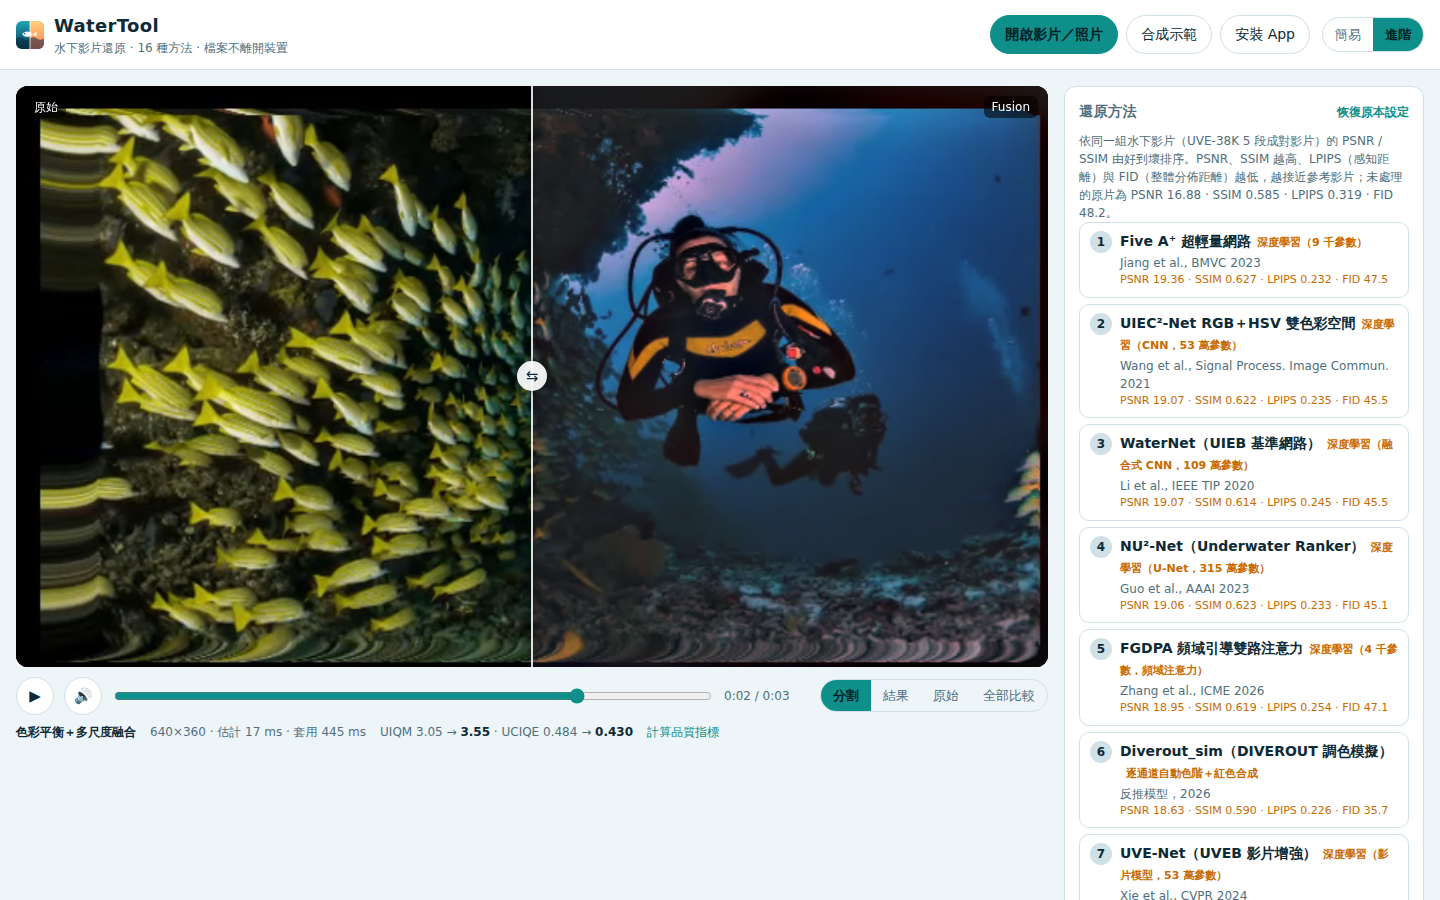
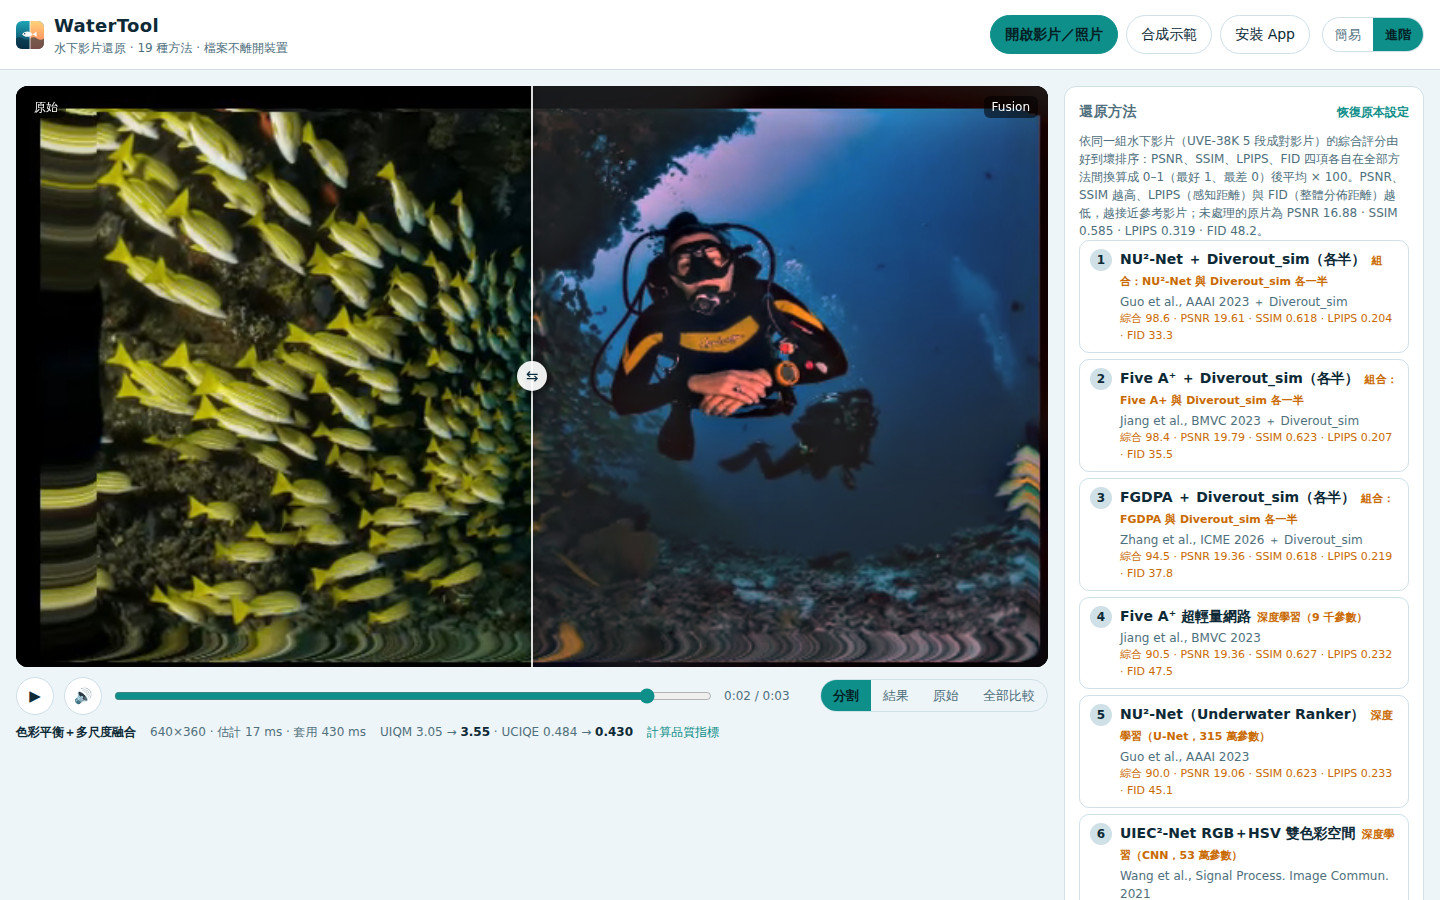
WIP: blends in App list (composite ranking), docs tables, quant speed/flicker checks, export/GPU test tools
Claude-Session: https://claude.ai/code/session_01CRjmNfKH33Gjkydw4cPcVw

diff --git a/lib/methods/index.js b/lib/methods/index.js
@@ -10,6 +10,7 @@ import { uwcnn, fiveaplus, uiec2net, nu2net } from './uieb-nets.js';
 import { waternet, uvenet } from './waternet.js';
 import diverout from './diverout.js';
 import fgdpa from './fgdpa.js';
+import { mixFiveaplus, mixNu2net, mixFgdpa } from './blend.js';
 
 mlle.discrete = ['order'];
 
@@ -24,6 +25,8 @@ export const SCORES = {
   funie: [17.29, 0.581, 0.325, 62.2], mlle: [17.20, 0.532, 0.424, 102.4], ancuti: [15.56, 0.586, 0.283, 74.1],
   ulap: [14.63, 0.529, 0.363, 69.9], seathru: [14.52, 0.466, 0.399, 87.0], ibla: [12.77, 0.409, 0.375, 58.3],
   udcp: [10.99, 0.387, 0.426, 66.4],
+  // 組合方法（深度模型＋Diverout_sim 各半，blend.js）
+  mix_nu2net: [19.61, 0.618, 0.204, 33.3], mix_fiveaplus: [19.79, 0.623, 0.207, 35.5], mix_fgdpa: [19.36, 0.618, 0.219, 37.8],
 };
 /** 未處理的原片在同一組影片上的分數（低於這個 = 比不處理還離參考遠） */
 export const RAW_SCORE = [16.88, 0.585, 0.319, 48.2];
@@ -42,7 +45,7 @@ export function composite(scores) {
 }
 export const COMPOSITE = composite(SCORES);
 
-export const METHODS = [ancuti, mlle, ulap, udcp, rghs, seathru, ibla, funie, nu2net, uiec2net, uwcnn, fiveaplus, waternet, uvenet, diverout, fgdpa]
+export const METHODS = [ancuti, mlle, ulap, udcp, rghs, seathru, ibla, funie, nu2net, uiec2net, uwcnn, fiveaplus, waternet, uvenet, diverout, fgdpa, mixFiveaplus, mixNu2net, mixFgdpa]
   .sort((a, b) => COMPOSITE[b.id] - COMPOSITE[a.id] || SCORES[b.id][0] - SCORES[a.id][0]);
 export const byId = Object.fromEntries(METHODS.map((m) => [m.id, m]));
 /** 評測用：把不在 App 清單裡的方法（例：mobile-nets.js 的候選模型）登記到 byId，讓 Processor 找得到 */

diff --git a/lib/methods/blend.js b/lib/methods/blend.js
@@ -37,5 +37,5 @@ export const mixFiveaplus = blendMethod(fiveaplus, { id: 'mix_fiveaplus', name: 
 export const mixUiec2net = blendMethod(uiec2net, { id: 'mix_uiec2net', name: 'UIEC²-Net ＋ Diverout_sim（各半）', short: 'UIEC²＋Diverout' });
 export const mixNu2net = blendMethod(nu2net, { id: 'mix_nu2net', name: 'NU²-Net ＋ Diverout_sim（各半）', short: 'NU²＋Diverout' });
 export const mixFgdpa = blendMethod(fgdpa, { id: 'mix_fgdpa', name: 'FGDPA ＋ Diverout_sim（各半）', short: 'FGDPA＋Diverout' });
-/** 評測過的候選（App 清單用其中三個，見 index.js） */
+/** 評測過的候選（App 清單用其中三個：Five A⁺、NU²-Net、FGDPA；UIEC²-Net 組合的綜合評分略低、而且慢 4 倍，只留在評測） */
 export const BLEND_CANDIDATES = [mixFiveaplus, mixUiec2net, mixNu2net, mixFgdpa];

diff --git a/docs/results-video.md b/docs/results-video.md
@@ -3,7 +3,7 @@
 由 `node scripts/bench-video.mjs` 與 `scripts/video-report.mjs` 產生。資料：[UVE-38K](https://github.com/TrentQiQ/UVE-38K)（Multimedia Tools and Applications 2023）倉庫附的 5 段真實水下影片與逐格參考影片（coral、cuttlefish、dive、marine_ranching_4、shark），每段全部的格（coral 359、cuttlefish 159、dive 119、marine_ranching_4 119、shark 161），共 917 格，320 px。
 參考影片是從 12 種增強方法中人工挑選、再做過幀間一致化的結果（不是真值）；GIF 為 256 色，原始與參考都經過同樣量化，分數適合方法間互相比較。
 
-每個方法都以 App 預設的影片模式處理（時間穩定化開：τ 0.5 秒、去閃爍 0.7、每格重新估計）；Diverout_sim 用它自己的關鍵幀（每 1 秒）＋線性內插。
+每個方法都以 App 預設的影片模式處理（時間穩定化開：τ 0.5 秒、去閃爍 0.7、每格重新估計）；Diverout_sim 用它自己的關鍵幀（每 1 秒）＋線性內插；組合方法（深度模型＋Diverout_sim 各半）的 Diverout_sim 部分同樣用關鍵幀，深度模型部分照常時間平滑。
 E_t = 平均 |(O_t − O_{t−1}) − (R_t − R_{t−1})|（0–255）：輸出影片的格間變化和參考影片差多少，越低越好；亮度閃爍 = 相鄰格平均亮度差（參考影片本身為 0.10）。
 
 LPIPS（Zhang et al., CVPR 2018，AlexNet v0.1）= 每格與參考格的深度特徵感知距離，越低越像；FID（Heusel et al., NeurIPS 2017）= 全部 917 格輸出與全部參考格的 InceptionV3 特徵分佈距離，越低整體觀感越接近參考。
@@ -11,69 +11,114 @@ FID 是「一組對一組」的分佈距離，917 格對 2048 維特徵屬於小
 
 每格 ms 是 Node 單執行緒 CPU、320 px 的整套處理時間，取自機器沒有其他工作時的另一次評測（這次 917 格的評測平行跑了很多工作，時間偏高）。
 
-| 排名 | 方法 | PSNR ↑ | SSIM ↑ | LPIPS ↓ | FID ↓ | E_t ↓ | 亮度閃爍 | 每格 ms |
-|---|---|---|---|---|---|---|---|---|
-| 1 | Five A⁺ 超輕量網路 | 19.36 | 0.627 | 0.232 | 47.5 | 10.45 | 0.41 | 628 |
-| 2 | UIEC²-Net RGB＋HSV 雙色彩空間 | 19.07 | 0.622 | 0.235 | 45.5 | 10.46 | 0.43 | 5555 |
-| 3 | WaterNet（UIEB 基準網路） | 19.07 | 0.614 | 0.245 | 45.5 | 10.52 | 0.48 | 4872 |
-| 4 | NU²-Net（Underwater Ranker） | 19.06 | 0.623 | 0.233 | 45.1 | 10.49 | 0.43 | 1277 |
-| 5 | FGDPA 頻域引導雙路注意力 | 18.95 | 0.619 | 0.254 | 47.1 | 10.54 | 0.43 | 114 |
-| 6 | Diverout_sim（DIVEROUT 調色模擬） | 18.63 | 0.590 | 0.226 | 35.7 | 10.84 | 0.60 | 5 |
-| 7 | UVE-Net（UVEB 影片增強） | 17.99 | 0.595 | 0.286 | 52.2 | 10.82 | 0.39 | 314 |
-| 8 | UWCNN 水下場景先驗 CNN | 17.48 | 0.580 | 0.349 | 77.0 | 11.08 | 0.48 | 879 |
-| 9 | RGHS 相對直方圖拉伸 | 17.37 | 0.558 | 0.281 | 42.3 | 11.78 | 0.56 | 44 |
-| 10 | FUnIE-GAN 深度學習 | 17.29 | 0.581 | 0.325 | 62.2 | 11.12 | 0.35 | 419 |
-| 11 | MLLE 最小色損＋局部對比 | 17.20 | 0.532 | 0.424 | 102.4 | 15.59 | 0.47 | 127 |
-| — | （未處理） | 16.88 | 0.585 | 0.319 | 48.2 | 10.70 | 0.37 | — |
-| 12 | 色彩平衡＋多尺度融合 | 15.56 | 0.586 | 0.283 | 74.1 | 11.30 | 0.35 | 104 |
-| 13 | ULAP 光衰減先驗復原 | 14.63 | 0.529 | 0.363 | 69.9 | 12.01 | 0.53 | 27 |
-| 14 | Sea-thru（ULAP 深度） | 14.52 | 0.466 | 0.399 | 87.0 | 14.11 | 0.93 | 246 |
-| 15 | IBLA 模糊度＋光吸收 | 12.77 | 0.409 | 0.375 | 58.3 | 12.70 | 0.70 | 249 |
-| 16 | UDCP 水下暗通道 | 10.99 | 0.387 | 0.426 | 66.4 | 13.14 | 0.42 | 31 |
+排名依**綜合評分**（0–100）：PSNR、SSIM、LPIPS、FID 各自在表中方法間做最小–最大正規化（最好 = 1、最差 = 0），四項平均 × 100。App 的方法清單用同樣的排序。
+
+| 排名 | 方法 | 綜合 ↑ | PSNR ↑ | SSIM ↑ | LPIPS ↓ | FID ↓ | E_t ↓ | 亮度閃爍 | 每格 ms |
+|---|---|---|---|---|---|---|---|---|---|
+| 1 | NU²-Net ＋ Diverout_sim（各半） | 98.6 | 19.61 | 0.618 | 0.204 | 33.3 | 10.40 | 0.50 | 1796 |
+| 2 | Five A⁺ ＋ Diverout_sim（各半） | 98.4 | 19.79 | 0.623 | 0.207 | 35.5 | 10.38 | 0.48 | 860 |
+| 3 | FGDPA ＋ Diverout_sim（各半） | 94.5 | 19.36 | 0.618 | 0.219 | 37.8 | 10.37 | 0.50 | 110 |
+| 4 | Five A⁺ 超輕量網路 | 90.5 | 19.36 | 0.627 | 0.232 | 47.5 | 10.45 | 0.41 | 628 |
+| 5 | NU²-Net（Underwater Ranker） | 90.0 | 19.06 | 0.623 | 0.233 | 45.1 | 10.49 | 0.43 | 1277 |
+| 6 | UIEC²-Net RGB＋HSV 雙色彩空間 | 89.5 | 19.07 | 0.622 | 0.235 | 45.5 | 10.46 | 0.43 | 5555 |
+| 7 | Diverout_sim（DIVEROUT 調色模擬） | 89.5 | 18.63 | 0.590 | 0.226 | 35.7 | 10.84 | 0.60 | 5 |
+| 8 | WaterNet（UIEB 基準網路） | 87.6 | 19.07 | 0.614 | 0.245 | 45.5 | 10.52 | 0.48 | 4872 |
+| 9 | FGDPA 頻域引導雙路注意力 | 86.2 | 18.95 | 0.619 | 0.254 | 47.1 | 10.54 | 0.43 | 114 |
+| 10 | UVE-Net（UVEB 影片增強） | 75.5 | 17.99 | 0.595 | 0.286 | 52.2 | 10.82 | 0.39 | 314 |
+| 11 | RGHS 相對直方圖拉伸 | 74.0 | 17.37 | 0.558 | 0.281 | 42.3 | 11.78 | 0.56 | 44 |
+| — | （未處理） | 69.0 | 16.88 | 0.585 | 0.319 | 48.2 | 10.70 | 0.37 | — |
+| 12 | FUnIE-GAN 深度學習 | 64.0 | 17.29 | 0.581 | 0.325 | 62.2 | 11.12 | 0.35 | 419 |
+| 13 | 色彩平衡＋多尺度融合 | 60.1 | 15.56 | 0.586 | 0.283 | 74.1 | 11.30 | 0.35 | 104 |
+| 14 | UWCNN 水下場景先驗 CNN | 56.4 | 17.48 | 0.580 | 0.349 | 77.0 | 11.08 | 0.48 | 879 |
+| 15 | ULAP 光衰減先驗復原 | 44.0 | 14.63 | 0.529 | 0.363 | 69.9 | 12.01 | 0.53 | 27 |
+| 16 | MLLE 最小色損＋局部對比 | 33.0 | 17.20 | 0.532 | 0.424 | 102.4 | 15.59 | 0.47 | 127 |
+| 17 | IBLA 模糊度＋光吸收 | 29.0 | 12.77 | 0.409 | 0.375 | 58.3 | 12.70 | 0.70 | 249 |
+| 18 | Sea-thru（ULAP 深度） | 26.9 | 14.52 | 0.466 | 0.399 | 87.0 | 14.11 | 0.93 | 246 |
+| 19 | UDCP 水下暗通道 | 13.0 | 10.99 | 0.387 | 0.426 | 66.4 | 13.14 | 0.42 | 31 |
 
 ### 各段 PSNR
 
 | 方法 | coral | cuttlefish | dive | marine_ranching_4 | shark |
 |---|---|---|---|---|---|
+| NU²-Net ＋ Diverout_sim（各半） | 16.09 | 23.39 | 22.41 | 22.04 | 19.88 |
+| Five A⁺ ＋ Diverout_sim（各半） | 16.42 | 23.47 | 23.54 | 21.17 | 19.87 |
+| FGDPA ＋ Diverout_sim（各半） | 16.12 | 23.12 | 22.52 | 20.46 | 19.71 |
 | Five A⁺ 超輕量網路 | 17.46 | 23.48 | 22.56 | 16.41 | 19.33 |
-| UIEC²-Net RGB＋HSV 雙色彩空間 | 17.17 | 22.76 | 23.00 | 15.54 | 19.37 |
-| WaterNet（UIEB 基準網路） | 16.37 | 22.96 | 20.84 | 20.30 | 19.03 |
 | NU²-Net（Underwater Ranker） | 16.93 | 23.41 | 22.24 | 16.03 | 19.39 |
-| FGDPA 頻域引導雙路注意力 | 16.92 | 22.92 | 22.22 | 16.03 | 19.29 |
+| UIEC²-Net RGB＋HSV 雙色彩空間 | 17.17 | 22.76 | 23.00 | 15.54 | 19.37 |
 | Diverout_sim（DIVEROUT 調色模擬） | 15.07 | 22.70 | 21.62 | 19.93 | 19.37 |
+| WaterNet（UIEB 基準網路） | 16.37 | 22.96 | 20.84 | 20.30 | 19.03 |
+| FGDPA 頻域引導雙路注意力 | 16.92 | 22.92 | 22.22 | 16.03 | 19.29 |
 | UVE-Net（UVEB 影片增強） | 16.46 | 23.40 | 19.04 | 16.57 | 16.32 |
-| UWCNN 水下場景先驗 CNN | 15.82 | 21.62 | 18.30 | 15.91 | 17.62 |
 | RGHS 相對直方圖拉伸 | 14.73 | 22.39 | 16.36 | 20.11 | 17.01 |
-| FUnIE-GAN 深度學習 | 15.71 | 19.97 | 19.81 | 16.03 | 17.23 |
-| MLLE 最小色損＋局部對比 | 15.77 | 17.96 | 19.24 | 17.46 | 17.96 |
 | （未處理） | 16.84 | 21.00 | 18.24 | 15.62 | 12.83 |
+| FUnIE-GAN 深度學習 | 15.71 | 19.97 | 19.81 | 16.03 | 17.23 |
 | 色彩平衡＋多尺度融合 | 14.58 | 18.20 | 16.61 | 13.76 | 15.72 |
+| UWCNN 水下場景先驗 CNN | 15.82 | 21.62 | 18.30 | 15.91 | 17.62 |
 | ULAP 光衰減先驗復原 | 15.48 | 16.93 | 14.27 | 14.54 | 10.80 |
-| Sea-thru（ULAP 深度） | 13.50 | 16.54 | 16.97 | 12.99 | 14.14 |
+| MLLE 最小色損＋局部對比 | 15.77 | 17.96 | 19.24 | 17.46 | 17.96 |
 | IBLA 模糊度＋光吸收 | 10.34 | 13.47 | 20.78 | 8.03 | 15.10 |
+| Sea-thru（ULAP 深度） | 13.50 | 16.54 | 16.97 | 12.99 | 14.14 |
 | UDCP 水下暗通道 | 11.09 | 15.33 | 10.76 | 7.22 | 9.45 |
 
 ### 各段 LPIPS ↓
 
 | 方法 | coral | cuttlefish | dive | marine_ranching_4 | shark |
 |---|---|---|---|---|---|
+| NU²-Net ＋ Diverout_sim（各半） | 0.212 | 0.076 | 0.172 | 0.323 | 0.245 |
+| Five A⁺ ＋ Diverout_sim（各半） | 0.204 | 0.074 | 0.169 | 0.371 | 0.253 |
+| FGDPA ＋ Diverout_sim（各半） | 0.217 | 0.074 | 0.168 | 0.411 | 0.263 |
 | Five A⁺ 超輕量網路 | 0.194 | 0.071 | 0.212 | 0.484 | 0.305 |
-| UIEC²-Net RGB＋HSV 雙色彩空間 | 0.202 | 0.069 | 0.209 | 0.458 | 0.325 |
-| WaterNet（UIEB 基準網路） | 0.227 | 0.083 | 0.217 | 0.428 | 0.330 |
 | NU²-Net（Underwater Ranker） | 0.204 | 0.087 | 0.206 | 0.441 | 0.305 |
-| FGDPA 頻域引導雙路注意力 | 0.215 | 0.066 | 0.205 | 0.581 | 0.320 |
+| UIEC²-Net RGB＋HSV 雙色彩空間 | 0.202 | 0.069 | 0.209 | 0.458 | 0.325 |
 | Diverout_sim（DIVEROUT 調色模擬） | 0.231 | 0.100 | 0.178 | 0.372 | 0.262 |
+| WaterNet（UIEB 基準網路） | 0.227 | 0.083 | 0.217 | 0.428 | 0.330 |
+| FGDPA 頻域引導雙路注意力 | 0.215 | 0.066 | 0.205 | 0.581 | 0.320 |
 | UVE-Net（UVEB 影片增強） | 0.224 | 0.086 | 0.251 | 0.597 | 0.421 |
-| UWCNN 水下場景先驗 CNN | 0.276 | 0.133 | 0.369 | 0.620 | 0.512 |
 | RGHS 相對直方圖拉伸 | 0.290 | 0.092 | 0.312 | 0.406 | 0.333 |
-| FUnIE-GAN 深度學習 | 0.261 | 0.145 | 0.284 | 0.715 | 0.388 |
-| MLLE 最小色損＋局部對比 | 0.391 | 0.298 | 0.454 | 0.536 | 0.515 |
 | （未處理） | 0.228 | 0.150 | 0.259 | 0.604 | 0.522 |
+| FUnIE-GAN 深度學習 | 0.261 | 0.145 | 0.284 | 0.715 | 0.388 |
 | 色彩平衡＋多尺度融合 | 0.279 | 0.108 | 0.301 | 0.443 | 0.331 |
+| UWCNN 水下場景先驗 CNN | 0.276 | 0.133 | 0.369 | 0.620 | 0.512 |
 | ULAP 光衰減先驗復原 | 0.287 | 0.215 | 0.357 | 0.534 | 0.557 |
-| Sea-thru（ULAP 深度） | 0.373 | 0.270 | 0.328 | 0.667 | 0.440 |
+| MLLE 最小色損＋局部對比 | 0.391 | 0.298 | 0.454 | 0.536 | 0.515 |
 | IBLA 模糊度＋光吸收 | 0.405 | 0.204 | 0.223 | 0.642 | 0.394 |
+| Sea-thru（ULAP 深度） | 0.373 | 0.270 | 0.328 | 0.667 | 0.440 |
 | UDCP 水下暗通道 | 0.371 | 0.201 | 0.464 | 0.675 | 0.558 |
+
+## 組合方法：深度模型 ＋ Diverout_sim 各取一半
+
+**想法**：Diverout_sim 是整支片關鍵幀的全域色階，整體顏色最接近參考（單一方法中 LPIPS 0.226、FID 35.7 最好），但局部對比與 PSNR、SSIM 較弱；
+深度模型是局部色彩轉換，PSNR、SSIM 最好，整體顏色（LPIPS、FID）較弱。兩者的誤差方向不同，把結果各取一半平均，誤差會互相抵消一部分。
+
+**做法**（`lib/methods/blend.js`、`lib/pipeline.js` 的 `runBlend`）：out = (1 − s)·深度模型 + s·Diverout_sim，s 預設 0.5（參數「Diverout_sim 比例」可調）。
+深度模型部分照常處理（含時間平滑）；Diverout_sim 部分影片用整支片的關鍵幀（同單獨的 Diverout_sim），照片就在那一張估計。
+播放與快速匯出時兩條路都在 GPU 上算：深度模型的關鍵幀係數內插 ＋ Diverout_sim 的 3×4 矩陣內插，在同一個著色器裡依比例混合（`player-gl.js` 的 `matW`）。
+
+**評測**：與上表其他方法完全相同（UVE-38K 5 段 917 格、App 影片模式、`bench-video.mjs --blends`）。四個候選都評測，App 用綜合評分前三：
+
+| 組合 | 綜合 | PSNR ↑ | SSIM ↑ | LPIPS ↓ | FID ↓ | E_t ↓ | 亮度閃爍 | EUVP PSNR／SSIM／LPIPS | 狀態 |
+|---|---|---|---|---|---|---|---|---|---|
+| NU²-Net ＋ Diverout_sim | 98.6 | 19.61 | 0.618 | **0.204** | **33.3** | 10.40 | 0.50 | 18.96／0.718／0.256 | App（第 1） |
+| Five A⁺ ＋ Diverout_sim | 98.4 | **19.79** | **0.623** | 0.207 | 35.5 | 10.38 | 0.48 | 18.83／0.713／0.257 | App（第 2） |
+| UIEC²-Net ＋ Diverout_sim | 98.3 | 19.68 | 0.620 | 0.204 | 35.2 | 10.39 | 0.50 | 18.90／0.712／0.254 | 只評測（分數略低，而且 UIEC²-Net 比 NU²-Net 慢約 4 倍） |
+| FGDPA ＋ Diverout_sim | 94.5 | 19.36 | 0.618 | 0.219 | 37.8 | 10.37 | 0.50 | 18.83／**0.722**／**0.253** | App（第 3，最快：每格約 0.1 秒） |
+| 對照：Five A⁺（單獨） | 90.5 | 19.36 | 0.627 | 0.232 | 47.5 | 10.45 | 0.41 | 19.13／0.695／0.274 | |
+| 對照：NU²-Net（單獨） | 90.0 | 19.06 | 0.623 | 0.233 | 45.1 | 10.49 | 0.43 | 19.81／0.705／0.264 | |
+| 對照：Diverout_sim（單獨） | 89.5 | 18.63 | 0.590 | 0.226 | 35.7 | 10.84 | 0.60 | 17.70／0.695／0.267 | |
+
+（EUVP = 23 張真實水下照片，未處理 17.19／0.680／0.303，見 [results.md](results.md)。綜合評分只用 UVE-38K 影片的四項分數。）
+
+**結論**：
+- **UVE-38K 影片上，組合方法排前三**：Five A⁺ ＋ Diverout_sim PSNR 19.79（單一方法最好的 Five A⁺ 是 19.36），NU²-Net ＋ Diverout_sim LPIPS 0.204、FID 33.3 是全部最好。
+  三個組合的 PSNR 都好過單獨的深度模型、LPIPS 都好過單獨的 Diverout_sim；FID 除了 FGDPA 組合（37.8，略差於 Diverout_sim 的 35.7）也都更好。
+  SSIM 介於兩者之間（比單獨的深度模型低 0.001–0.005）。
+  E_t（10.37–10.40）比兩個組成方法都低：兩者各自的格間變化部分抵消。亮度閃爍介於兩者之間。
+- **EUVP 照片上結果不一樣**：組合方法 SSIM、LPIPS 比組成的深度模型好，但 PSNR 低 0.3–0.9 dB。EUVP 的參考圖是另一種風格的增強結果，
+  Diverout_sim 單獨在 EUVP 上只有 17.70，平均進去後拉低了 PSNR。影片（UVE-38K）才是 App 的主要用途，排序依影片分數。
+- **比例**：Five A⁺ ＋ Diverout_sim 的比例 0.3／0.4／0.5／0.6／0.7 的 PSNR 為 19.75／19.80／19.79／19.70／19.53（由兩者的輸出直接平均算得），0.4–0.5 最好；預設用 0.5。
+- **速度**：組合方法的計算量 = 深度模型 ＋ Diverout_sim（每格多約 5 ms）。播放與快速匯出在 GPU 上混合，和單獨的深度模型一樣順。
+- 這是在拿來排序的同一組影片上評測的結果（比例 0.5 是事先決定、不是在這組資料上挑的）；EUVP 的結果顯示換一種參考風格時，PSNR 不一定更好。
 
 ## 新模型評測：手機級（2024–2026）、大型對照模型與通用還原模型
 
